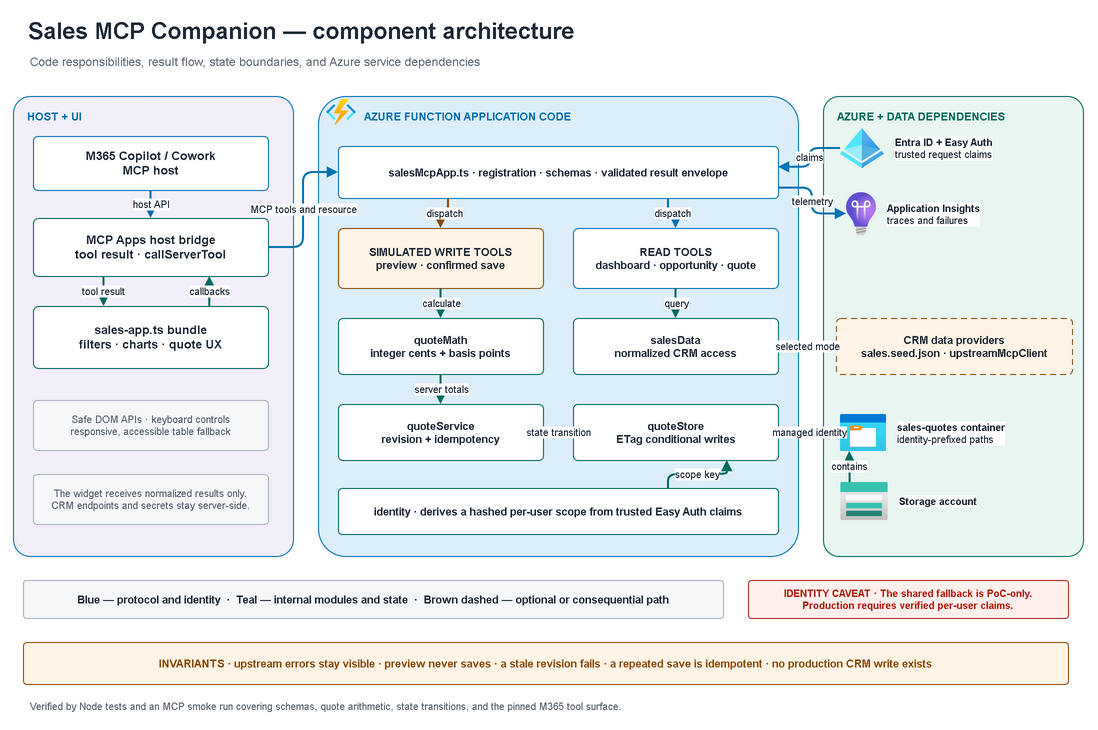
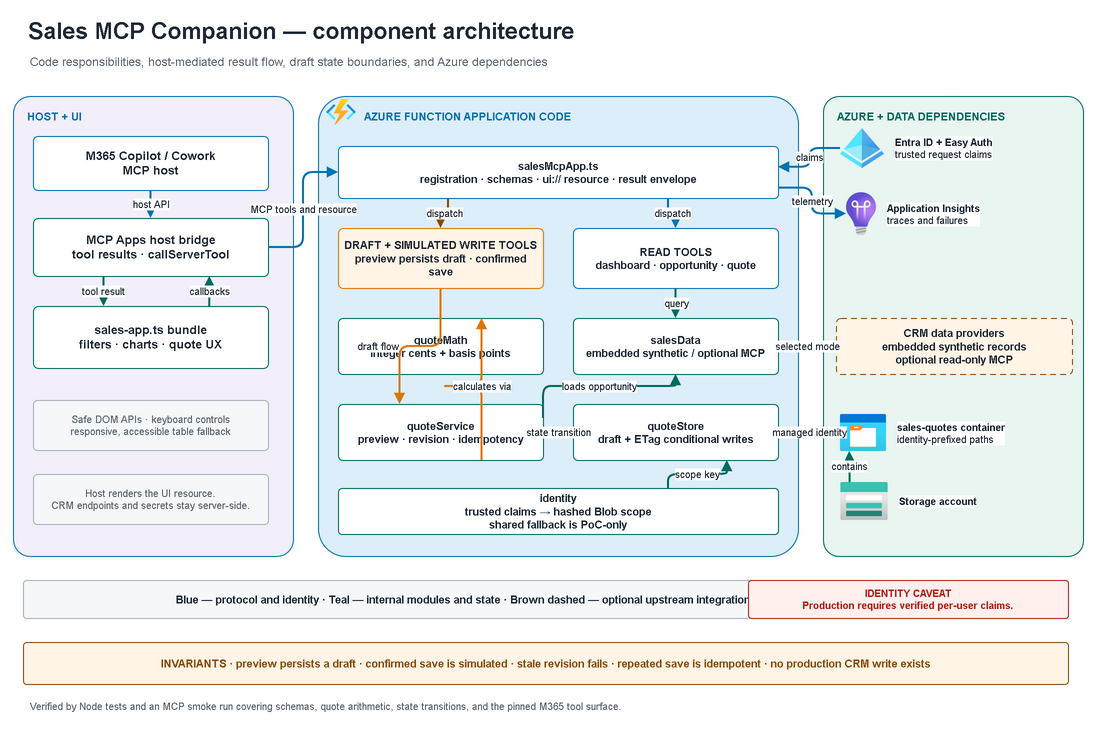
docs: refine component architecture diagram with drawio passes

diff --git a/docs/architecture/CREDITS.md b/docs/architecture/CREDITS.md
@@ -4,6 +4,7 @@
 - The diagrams use native diagrams.net rectangles, connectors, typography, and accessible semantic colors, plus the official Azure architecture icon set bundled with diagrams.net (`https://app.diagrams.net/img/lib/azure2/...`, Microsoft Azure architecture icons). Those icons are referenced by URL, not copied into this repository, so the `.drawio` needs network access to render them in the editor; the exported PNGs are self-contained. Icon use follows Microsoft's architecture-diagram icon terms: they identify Azure services in a technical diagram and are not altered, recoloured, or used to imply Microsoft endorsement.
 - No MCP, Salesforce, or other third-party logos are used. Non-Azure elements are plain labelled boxes.
 - Azure service names are plain-text factual labels; Azure blue is used as a visual convention, not as a copied brand asset.
+- The component-architecture visual direction was informed by [Microsoft Azure architecture diagram guidance](https://learn.microsoft.com/en-us/azure/well-architected/architect-role/design-diagrams), [Azure architecture icons](https://learn.microsoft.com/en-us/azure/architecture/icons/), and the [MCP Apps specification](https://modelcontextprotocol.io/docs/extensions/apps).
 - The Cowork workflow structure was informed by the public [L2Q Cowork layout](https://github.com/scadam/L2Q/tree/7f5c968b12d81e3a6eca0277a0e91ca59ecbe484/cowork). No L2Q prose, code, or images were copied.
[1 lines of base64/hex data omitted]
 - Generated and reviewed on 2026-09-18. Editable `.drawio` files remain the authoritative artifacts.

diff --git a/docs/architecture/ITERATE-REVIEW.md b/docs/architecture/ITERATE-REVIEW.md
@@ -31,3 +31,14 @@ with its official Azure architecture icon instead of a generic labelled box.
 Both pages were re-exported and inspected: the deployment page was corrected for
 canvas overflow, label collisions on the Entra and right-hand service column, and
 an adapter edge that appeared to run through the node it terminated on.
+
+## Component-architecture refinement
+
+The component page was then pitched and iterated independently while leaving the
+Azure deployment page unchanged. The final component diagram corrects the tool
+inventory, identifies embedded synthetic data and the optional read-only MCP
+adapter, shows `quoteService` orchestrating arithmetic and data access, and
+states the actual draft-write and simulated-save invariants. Four correction
+passes were inspected at A5 export size; intermediate component pitch/pass
+artifacts were removed at the user's request, leaving only the final source and
+PNG.
